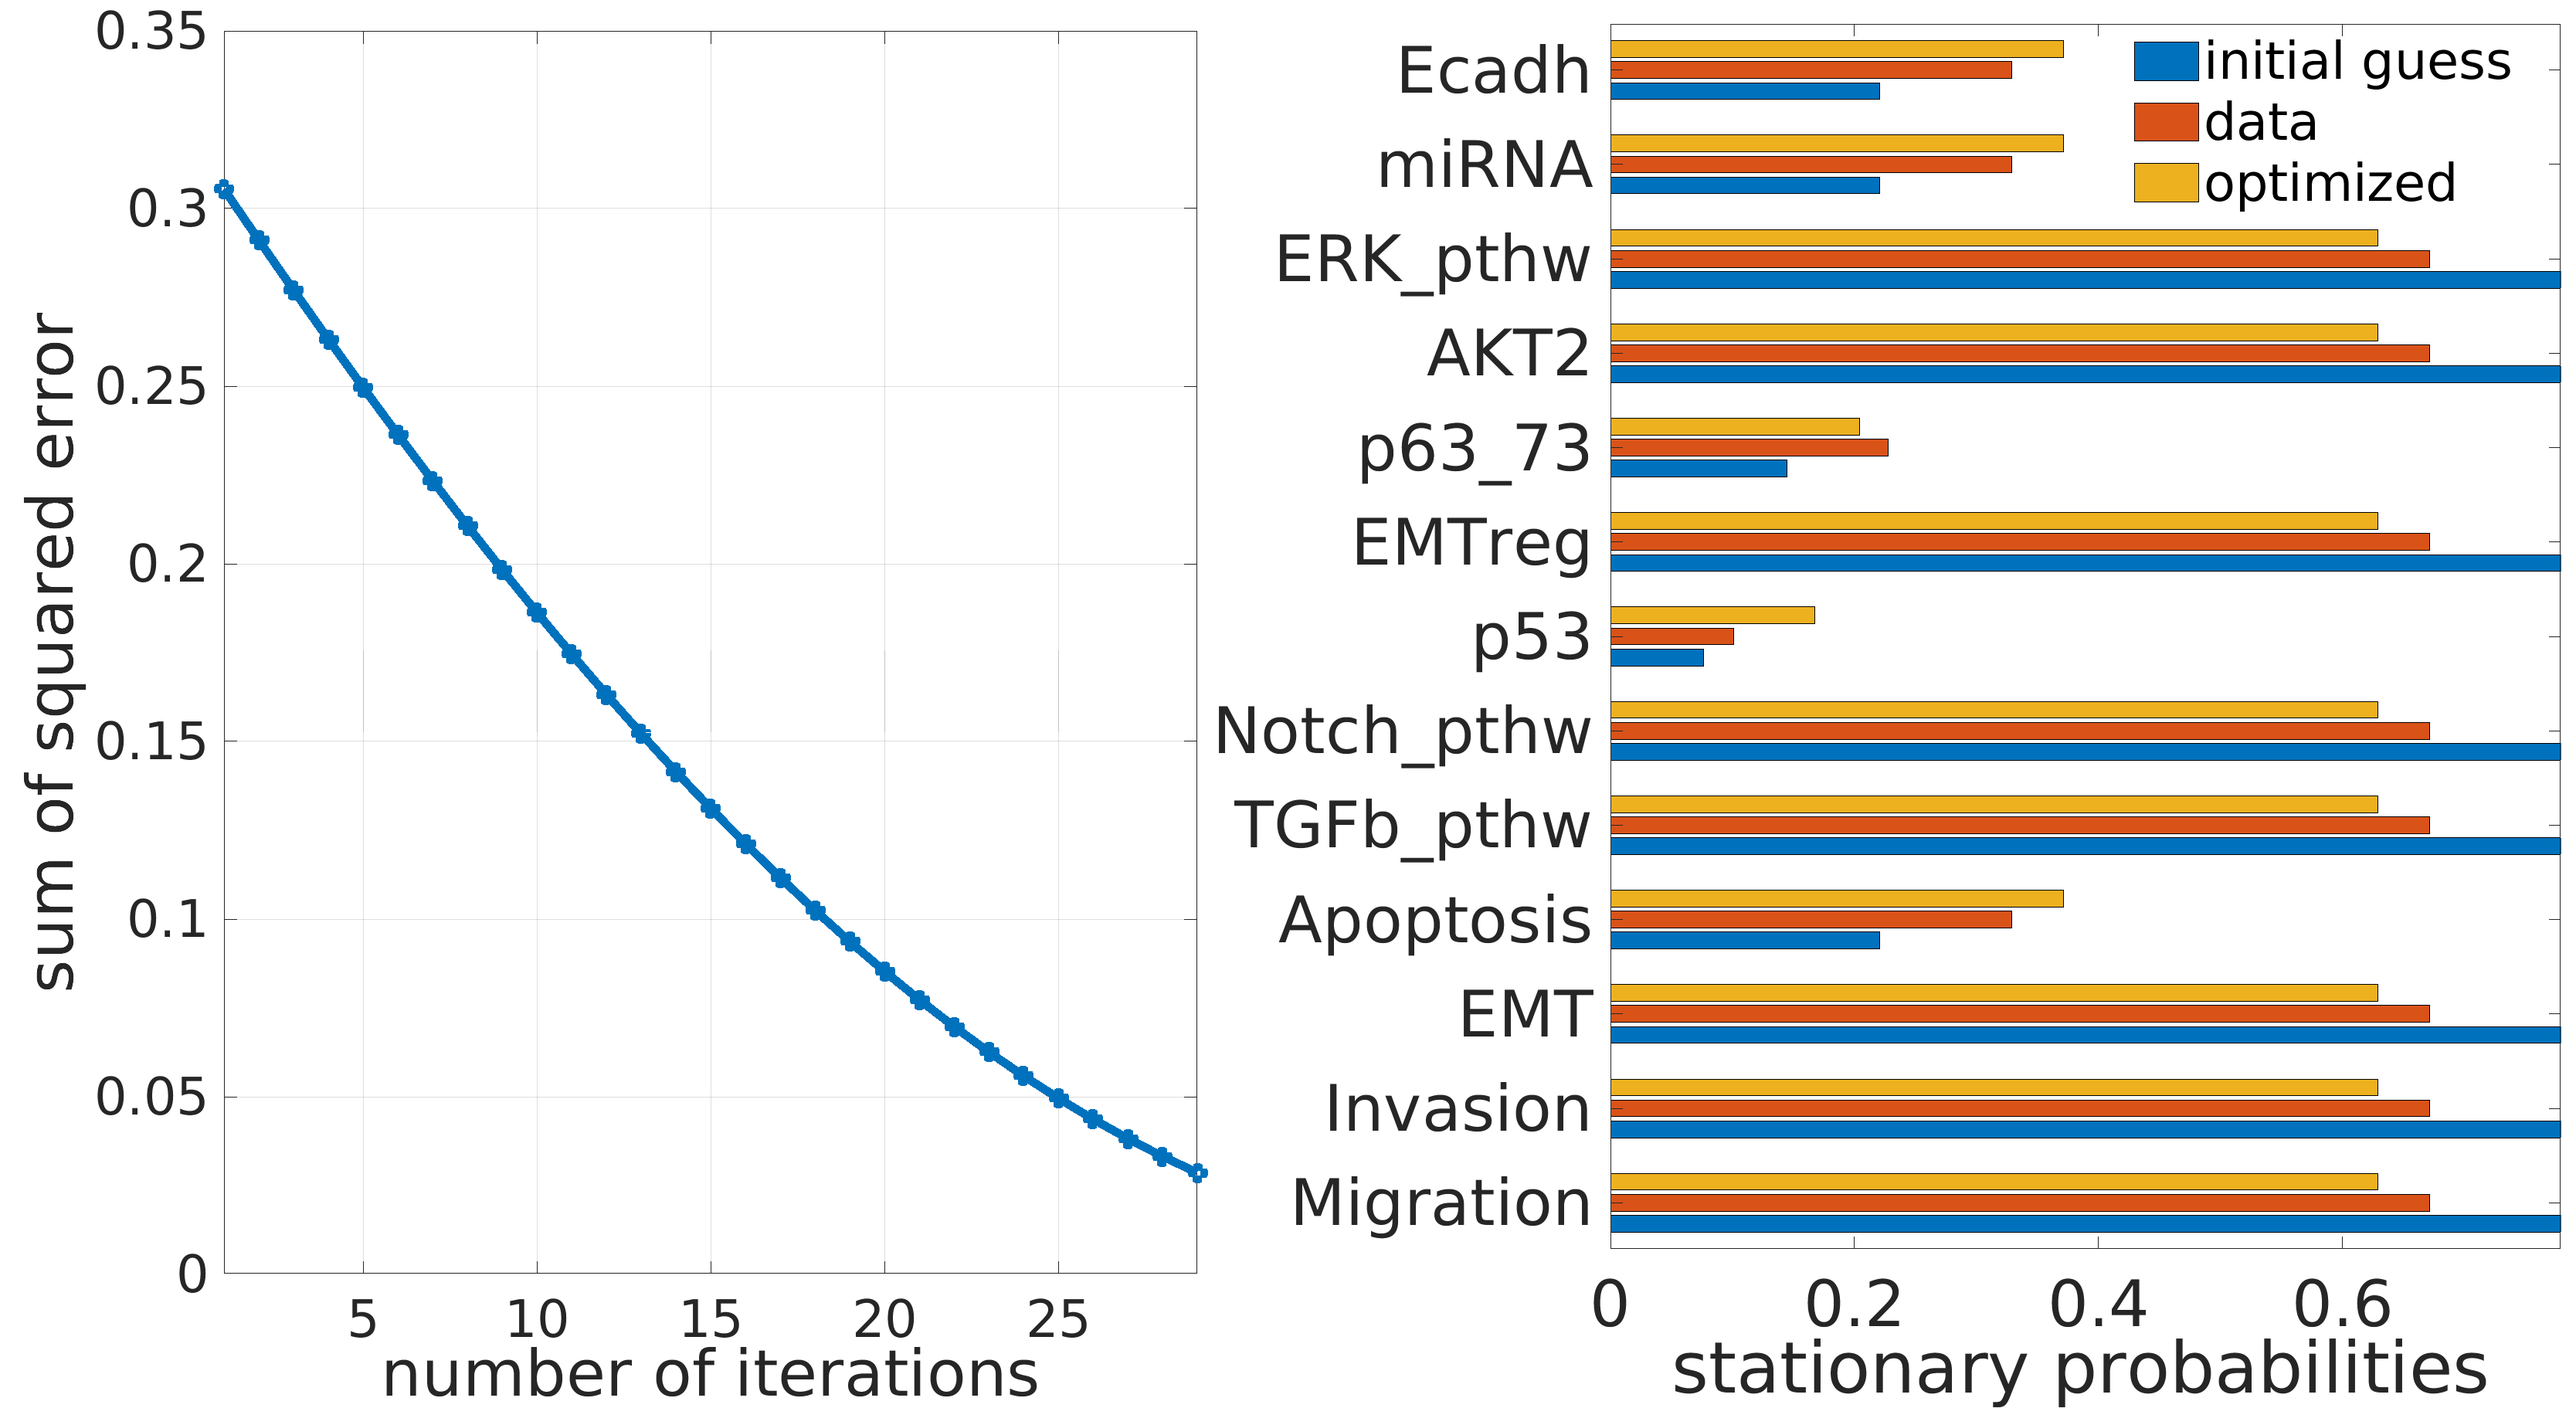
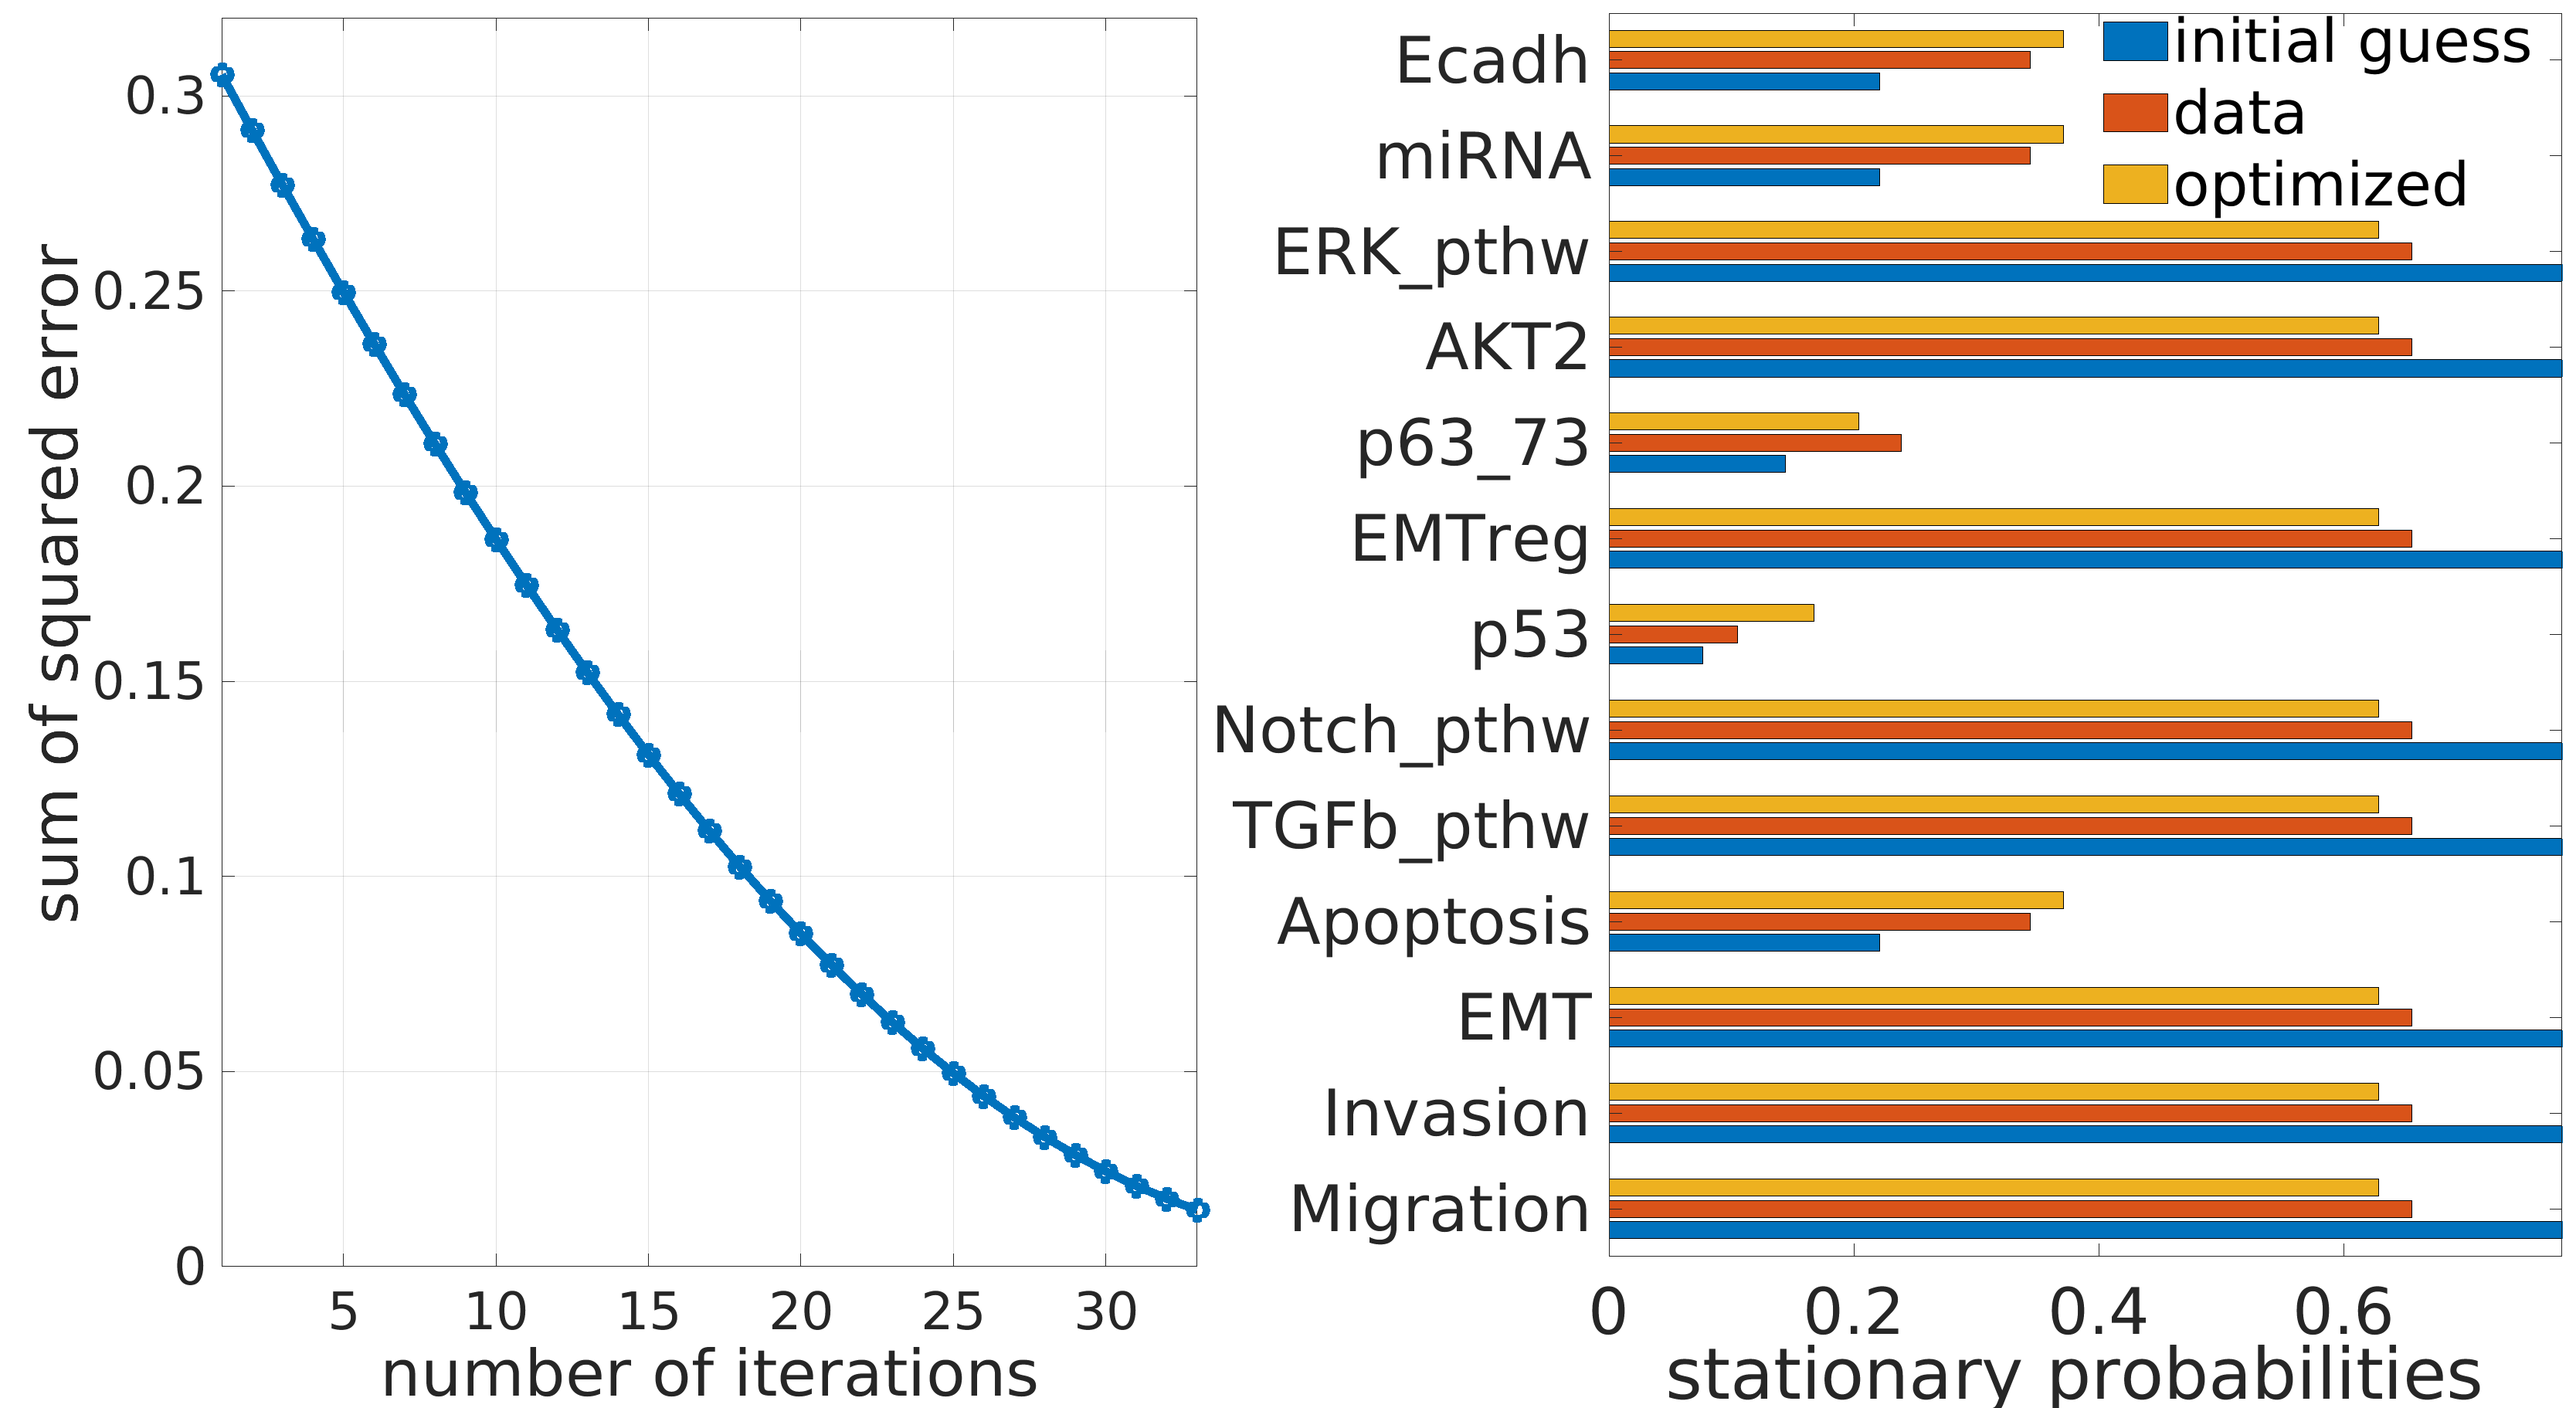
added plot for numer grad descent

diff --git a/doc/README.md b/doc/README.md
@@ -792,7 +792,7 @@ error_thresh=0.1; % what % of initial error to stop?
 step_thresh=[]; % what step # to stop? you can leave this empty 
 % init_error_table: changes to initial error when increasing or decreasing parameter values
 init_error_table=[]; % if we have it from previous fitting than feed it to fcn
-% incr_resol_init: initial % change from the initial param values to calculate the numerical gradient (change in error) for the descent
+% incr_resol_init: initial % change from initial param values to calculate the numerical gradient for the descent
 % incr_resol: change in param values during gradient descent
 incr_resol_init=0.15; incr_resol=0.03;
 
